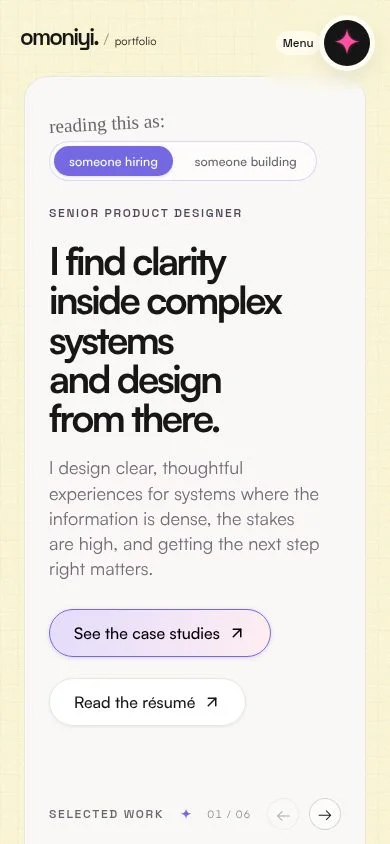
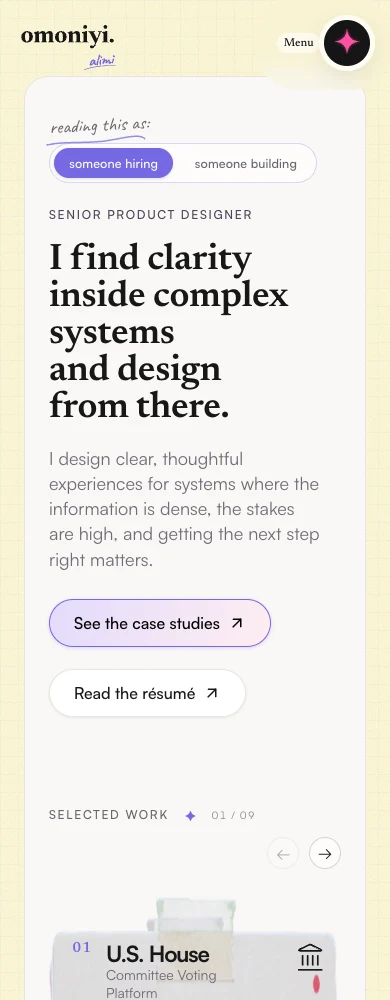
my portfolio update after all these changes

diff --git a/src/data/caseStudies.js b/src/data/caseStudies.js
@@ -100,16 +100,18 @@ export const caseStudies = {
   ]
  }
  ,portfolio:{
-  number:'07',slug:'portfolio-ecosystem',client:'Self-initiated',title:'One Designer, Three Audiences, One System',summary:'Designing and building a portfolio that holds my product work, my studio, a UI kit, and my writing, without making the story harder to read.',tags:['Information architecture','Product design','Visual systems','Front-end build'],
-  chapters:['Snapshot','Problem','Audiences','Decisions','The System','How This Site Moves','Outcome & Reflection'],
+  number:'07',slug:'portfolio-ecosystem',client:'Self-initiated',title:'One Designer, Three Practices, One System',summary:'Building the Stardust System: a portfolio, a design studio, and a UI-kit practice with distinct identities, shared foundations, and a clear path for each audience.',tags:['Brand architecture','Information architecture','Design systems','Front-end build'],
+  chapters:['Snapshot','Problem','Audiences','Brand Architecture','Decisions','Typography & Detail','The System','How This Site Moves','Outcome & Reflection'],
   hero:[['portfolio-hiring','Someone hiring / Positioning, case studies, and the résumé come first.'],['portfolio-building','Someone building / The same page leads with Studio and LaunchKit.']],
-  facts:[['Project','omoniyialimi.com, self-initiated'],['Role','Sole designer and builder'],['Primary audience','Recruiters, hiring managers, founders, design-led teams'],['Secondary audiences','Studio clients, LaunchKit users, readers'],['Surfaces','Portfolio, Studio, LaunchKit UI, Observations'],['Tools','Figma, React, Vite, Netlify, GA4'],['Timeline','July 2026 – ongoing'],['My ownership','Strategy, information architecture, copy, visual design, front-end build, analytics']],
-  proof:[['2','Reading modes: someone hiring, someone building'],['4','Connected spaces in one ecosystem'],['1','Point of view holding it together']],
+  facts:[['Project','omoniyialimi.com, self-initiated'],['Role','Sole designer and builder'],['Primary audience','Recruiters, hiring managers, founders, design-led teams'],['Secondary audiences','Studio clients, LaunchKit users, readers'],['Brand family','Omoniyi Alimi · Omoniyi Studio · Omoniyi UI'],['Surfaces','Portfolio, Studio, LaunchKit UI, Observations'],['Tools','Figma, React, Vite, Netlify, GA4'],['Timeline','July 2026 – ongoing'],['My ownership','Strategy, information architecture, copy, visual design, front-end build, analytics']],
+  proof:[['2','Reading modes: someone hiring, someone building'],['3','Distinct practices in one brand family'],['4','Connected surfaces, including Observations']],
   sections:[
    section('The portfolio had outgrown the portfolio format.','My site started as a traditional portfolio: selected work, an about page, a way to get in touch. Then my practice grew. I was building Omoniyi Studio, developing LaunchKit UI, writing Observations, and positioning for senior product roles. The problem wasn’t fitting more into the navigation. It was letting all of it belong to the same designer without making the story harder to understand.',{images:[['portfolio-hiring','The homepage in hiring mode: the positioning, the selected-work stack, and the résumé within one screen.']]}),
    section('The more I added, the less the site explained.','Three kinds of visitor were arriving with three different jobs. A recruiter needs to know, fast: what kind of designer is she, what problems is she good at, can she handle complexity, and what did she actually own? Treating every visitor the same would have made the site simpler to build and harder to understand.',{items:[item('Someone hiring','Needs specialization quickly: complex systems, product thinking, ownership, and proof.'),item('Someone building','Needs to believe I can shape an idea from a messy beginning into something that ships.'),item('Someone using the kit','Needs to see that systems thinking is something I practice independently, not just describe.')]}),
    section('So I treated the website like a product.','Instead of asking what sections a portfolio should have, I started with one question: what does each person need to understand before they know where to go next? The answer kept the portfolio at the center and turned everything else into supporting evidence: separate doors into the same practice.',{items:[item('Omoniyi Studio','How I think when the starting point is a business, a rough idea, or a visual problem.','portfolio-studio','Studio: diagnosis, design, build, and improvement as one path.'),item('LaunchKit UI','Systems thinking, reusable patterns, and component architecture, built as a product.','portfolio-uikit','LaunchKit UI: a free kit that grows into Pro.'),item('Observations','The references, media, and ideas that shape the work, kept visible.','portfolio-observations','Observations: reference, then thought, then output.')]}),
-   section('Four decisions that held it together.','Each one trades a little simplicity for a lot of clarity. Together they let the site change emphasis without changing who I am.',{items:[item('Design for intent, not for everyone.','A two-way switch asks who’s reading. Someone hiring sees complex systems, ownership, and the résumé. Someone building sees “Bring me the rough idea.” The tradeoff: one more interaction to maintain, instead of diluting the hiring message to sell services.','portfolio-building','The building view of the same hero.'),item('Make complexity the positioning, not the aesthetic.','Instead of listing disciplines, the site names the transformation I keep making: complex systems, made clear. Every case study follows one anatomy so readers can compare projects instead of relearning each one.','portfolio-work','The Work page: every study shares one structure.'),item('Use a notebook as the interface metaphor.','Warm paper, strong type, a visible grid, stamps, and handwriting. The grid provides order; the annotations provide personality. The texture stays restrained so enterprise screens still read cleanly.','portfolio-mobile','The notebook language holds on a phone.'),item('Give each space its own voice and one grammar.','If the portfolio feels like field notes, Studio feels like the design office they lead to. Navigation keeps the portfolio primary, with Studio and LaunchKit one step away, held together by shared type, spacing, and a common switcher.','portfolio-studio','Studio’s parchment, ink, and oxblood dialect.')]}),
+   section('One author. Three practices. A product family with a thesis.','The brand architecture gives each part of the practice a clear role. Omoniyi Alimi is the professional identity, Omoniyi Studio is the service practice, and Omoniyi UI is the foundation for reusable products such as LaunchKit. Observations belongs within the portfolio as a place for writing, rather than becoming a fourth brand.',{items:[item('01 / The Professional','The omoniyi. serif wordmark and handwritten alimi signature make the portfolio personal while keeping the work at the center. This is where hiring teams find my experience, case studies, and résumé.'),item('02 / The Engine','The stacked studio / OMONIYI mark gives the service practice its own presence. Oxblood and cream connect strategy, brand identity, product design, and building into one offer.'),item('03 / The Foundations','The monospaced omoniyi. wordmark and square ui tag distinguish Omoniyi UI. LaunchKit is the reusable product within that practice: components and patterns that give someone else a starting point.')],images:[['portfolio-brand-system','The Stardust brand family: professional, studio, and UI identities, with light, dark, and compact applications.']],quote:'One author. Three practices. A product family with a thesis.'}),
+   section('Four decisions that held it together.','Each one trades a little simplicity for a lot of clarity. Together they let the site change emphasis without changing who I am.',{items:[item('Design for intent, not for everyone.','A two-way switch asks who’s reading. Someone hiring sees complex systems, ownership, and the résumé. Someone building sees “Bring me the rough idea.” The tradeoff: one more interaction to maintain, instead of diluting the hiring message to sell services.','portfolio-building','The building view of the same hero.'),item('Make complexity the positioning, not the aesthetic.','Instead of listing disciplines, the site names the transformation I keep making: complex systems, made clear. Every case study follows one anatomy so readers can compare projects instead of relearning each one.','portfolio-work','The Work page: every study shares one structure.'),item('Use a notebook as the interface metaphor.','Warm paper, strong type, a visible grid, stamps, and handwriting. The grid provides order; the annotations provide personality. The texture stays restrained so enterprise screens still read cleanly.','portfolio-mobile','The notebook language holds on a phone.'),item('Give each space its own voice and one grammar.','If the portfolio feels like field notes, Studio feels like the design office they lead to. Navigation keeps the portfolio primary, with Studio and LaunchKit one step away. Shared spacing, interaction patterns, and a common switcher connect the pages; each practice has its own wordmark and typographic voice.','portfolio-studio','Studio’s parchment, ink, and oxblood dialect.')]}),
+   section('Different voices, deliberate roles.','Typography separates the practices without making them feel unrelated. The portfolio pairs Newsreader headlines with Satoshi body text and small section labels. Studio keeps its Fraunces editorial voice. LaunchKit UI uses IBM Plex Sans where it previously used Space Grotesk; its logo remains a separate brand asset.',{table:{caption:'How the type system supports each practice',head:['Surface','Typography','Purpose'],rows:[['Portfolio','Newsreader + Satoshi','Expressive headlines with restrained body copy and section labels.'],['Studio','Fraunces + supporting sans serif','An editorial voice for the service practice.'],['LaunchKit UI','IBM Plex Sans','Clear interface typography for reusable components and product information.'],['Personal annotations','Caveat','A handwritten accent for notes and small moments of personality.']]},items:[item('Keep the headline dramatic, but give it room.','The homepage headline is four percent smaller, with slightly tighter leading so its four lines read as one composition. Body copy stays restrained.'),item('Separate the brand mark from the typeface.','Each header, transition, and footer can reuse the same practice-specific logo artwork. Changing interface typography does not redraw the identity.'),item('Carry the details onto a phone.','The portfolio footer keeps its information and social links on the left, with sleeping SD on the right. Field-note dividers have explicit space around the text, so the editorial rhythm survives the smaller screen.')],images:[['portfolio-mobile','The current mobile homepage: Newsreader headline, Satoshi supporting text, and a single-column reading order.'],['portfolio-footer-mobile','The mobile footer: social links and publication details on the left, sleeping SD on the right.']]}),
    section('Infrastructure, not a finished portfolio.','A portfolio also lives in LinkedIn posts, job applications, messages, and search results. Every part of the site needed to make sense before anyone clicked, and to keep working as new things arrive.',{items:[item('Previews are part of the UX.','Each route is prerendered with its own title, description, and preview image, so shared links read correctly without running JavaScript. The sitemap is generated from the same data.'),item('Content is data.','Case studies, résumés, and page metadata live in structured data. A new case study is one entry, not a redesign, and both résumés are built from one set of facts.'),item('The funnel is instrumented.','GA4 events track résumé views, studio inquiries, form starts, bookings, and LaunchKit clicks, so decisions about the site come from how people use it.')],images:[['portfolio-og-home','Portfolio link preview.'],['portfolio-og-studio','Studio link preview, same family, its own voice.']]}),
    section('One motion scale, three personalities.','Motion on the site follows the same rule as the rest of the system: one shared set of timings, with each space choosing a personality from it. Everyday feedback is quick and gets out of the way; brand moments are slower and rarer. Nothing moves just to be seen, and everything has a still version.',{items:[item('Portfolio: hand-placed','A soft spring with about 4% overshoot, small resting tilts, and pen marks that ink themselves once. It should feel like someone arranging notes on a desk.'),item('Studio: typeset','Long, calm ease-out settles with no bounce and no rotation. The office the notes lead to moves like type being set, not paper being shuffled.'),item('LaunchKit: productive','Productive curves only, 150–240 ms, no rotation. Motion there exists to show component states, because that is what builders are evaluating.')],table:{caption:'Motion spec: the site’s key interactions',head:['Interaction','Element','Property','Duration','Easing','Reduced motion'],rows:[['Open a case study','Work card → case-study header','Shared-element morph (View Transitions API)','420 ms','Expressive standard','Instant page change'],['Swap reading mode','Hero headline and actions','Opacity, position','200–240 ms','Productive standard','Instant swap'],['Browse selected work','Paper card stack','Transform (tear away, settle)','320 ms','Hand-placed spring','Instant, no tilt'],['Annotate','Pen mark under a note','Stroke draw, once on first view','700 ms','Pen','Shown already drawn'],['Ambient sky','Star dust canvas','Particle drift','Continuous','—','Paused; one still frame; pause control always visible'],['Hover feedback','Cards, links, buttons','Lift, colour','150–200 ms','Productive standard','Colour change only']]}}),
    section('Range got easier to read once it had a point of view.','The hardest part of designing for yourself isn’t visual design. It’s deciding what deserves emphasis. I first treated range as something to explain; it turned out range is easy to understand when a strong point of view connects it. Analytics went live in September 2026, so no conversion result is claimed yet.',{items:[item('For hiring teams','Product thinking, complex systems, ownership, and visual craft come first, with a résumé tailored to the role.'),item('For founders','Studio translates the same abilities into a clear service, from diagnosis to build.'),item('For builders','LaunchKit turns my systems thinking into something other people can use.')],quote:'The goal was never to make everything look the same. It was to make it obvious the same person was thinking behind all of it.'})

diff --git a/src/styles/pages/observations.css b/src/styles/pages/observations.css
@@ -7,6 +7,7 @@
 .observation-card__topline, .observation-card__footer { align-items: center; display: flex; font: 700 .66rem/1 var(--font-family-display); justify-content: space-between; letter-spacing: .18em; position: relative; text-transform: uppercase; }
 .observation-card__topline { border-bottom: 1px solid rgb(34 30 44 / 15%); color: var(--text-secondary); padding-bottom: 1rem; }
 .observation-card__body { align-self: center; max-width: 58rem; position: relative; }
+.observation-card__body { padding-block: clamp(1.5rem, 3vw, 2.5rem); }
 .observation-card__issue { color: var(--color-pink-500); font: 500 1rem/1.35 var(--font-family-personal); margin: 0 0 1.15rem; max-width: 44ch; }
 .observation-card h2 { font: 700 clamp(2.5rem, 5.6vw, 5.8rem)/.92 var(--font-family-display); letter-spacing: -.022em; margin: 0; max-width: 15ch; }
 .observation-card__excerpt { color: var(--text-secondary); font: 400 clamp(1rem, 1.5vw, 1.25rem)/1.45 var(--font-family-body); margin: 1.5rem 0 0; max-width: 48ch; }

diff --git a/src/pages/project-case-study.css b/src/pages/project-case-study.css
@@ -38,3 +38,6 @@
 .study-clip__toggle{position:absolute;right:.75rem;bottom:.75rem;min-height:36px;padding:0 .9rem;border-radius:99px;border:1px solid #17151d26;background:#fffdf4e6;font:600 .72rem var(--font-family-display);cursor:pointer}
 .study-clip__toggle:focus-visible{outline:3px solid #80558c;outline-offset:3px}
 .visually-hidden{position:absolute!important;width:1px;height:1px;overflow:hidden;clip:rect(0 0 0 0);white-space:nowrap}
+
+/* Let the portrait brand sheet remain readable within this case study. */
+.portfolio-study--portfolio-ecosystem .study-evidence img[src*="portfolio-brand-system"] { max-height: 64rem; }
